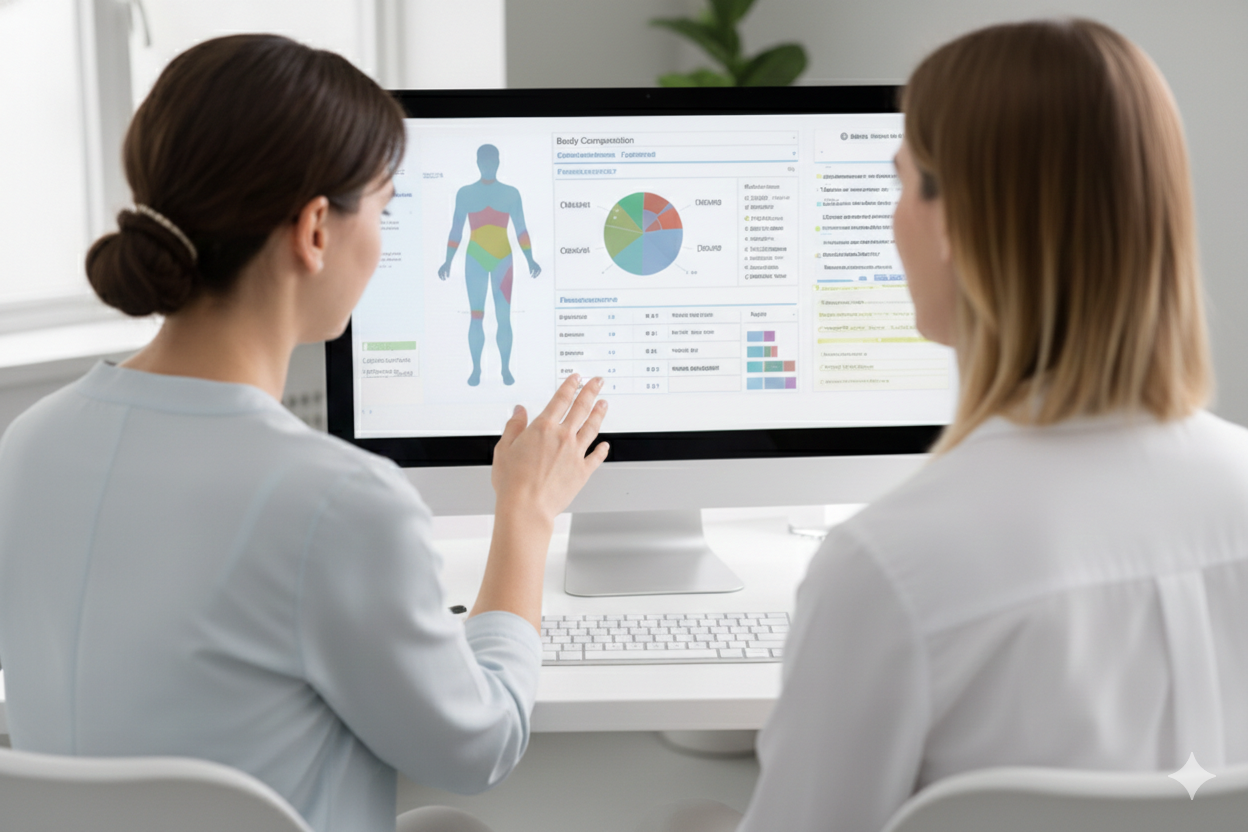
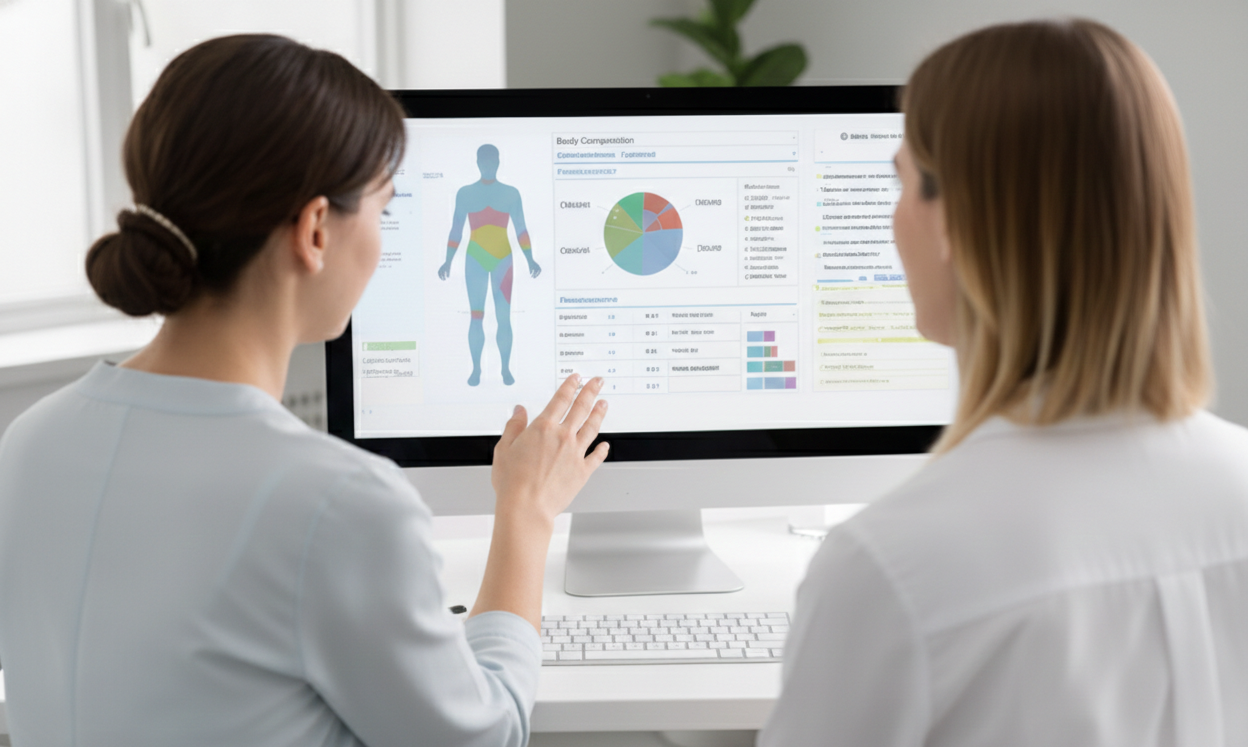
piani personalizzati update

diff --git a/piani-nutrizionali-personalizzati.html b/piani-nutrizionali-personalizzati.html
@@ -112,13 +112,13 @@
                   </script>
                   <div class="swiper-wrapper">
                     <div class="swiper-slide">
-                      <img src="assets/img/portfolio/allergies.png" alt="Showcase" class="img-fluid" loading="lazy">
+                      <img src="assets/img/services/carosello-piani-pers/piano.png" alt="Showcase" class="img-fluid" loading="lazy">
                     </div>
                     <div class="swiper-slide">
-                      <img src="assets/img/portfolio/gastro.png" alt="Showcase" class="img-fluid" loading="lazy">
+                      <img src="assets/img/services/carosello-piani-pers/veg.png" alt="Showcase" class="img-fluid" loading="lazy">
                     </div>
                     <div class="swiper-slide">
-                      <img src="assets/img/portfolio/patologie.png" alt="Showcase" class="img-fluid" loading="lazy">
+                      <img src="assets/img/services/carosello-piani-pers/sportiva.png" alt="Showcase" class="img-fluid" loading="lazy">
                     </div>
                   </div>
                   <div class="swiper-pagination"></div>
